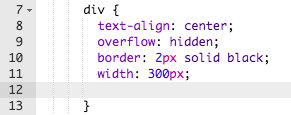
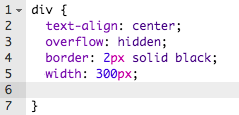
finished separating HTML and CSS. fixes #32

diff --git a/en-GB/Wanted/Club Leader Resources/WantedFinished.html b/en-GB/Wanted/Club Leader Resources/WantedFinished.html
@@ -1,50 +1,7 @@
 <html>
   
   <head>
-  
-    <style>
-      
-      body {
-        background: lightblue;
-      }
-      
-      div {
-        text-align: center;
-        overflow: hidden;
-        border: 5px dotted red;
-        width: 300px;
-        background: yellow;
-      }
-      
-      img {
-        width: 100px;
-        border: 2px solid black;
-        padding: 10px;
-        background: white;
-        margin: 10px;
-      }
-      
-      h1 {
-        font-family: Impact;
-        font-size: 50pt;
-        text-decoration: underline overline;
-        margin: 10px;
-      }
-      
-      h3 {
-        font-family: Impact;
-        font-size: 18pt;
-        margin: 10px;
-      }
-      
-      p {
-        font-family: Arial;
-        font-size: 12pt;
-        margin: 20px;
-      }
-      
-    </style>
-    
+    <link rel="stylesheet" href="style.css"> 
   </head>
   
   <body>

diff --git a/en-GB/Wanted/Club Leader Resources/style.css b/en-GB/Wanted/Club Leader Resources/style.css
@@ -1,0 +1,38 @@
+body {
+  background: lightblue;
+}
+
+div {
+  text-align: center;
+  overflow: hidden;
+  border: 5px dotted red;
+  width: 300px;
+  background: yellow;
+}
+
+img {
+  width: 100px;
+  border: 2px solid black;
+  padding: 10px;
+  background: white;
+  margin: 10px;
+}
+
+h1 {
+  font-family: Impact;
+  font-size: 50pt;
+  text-decoration: underline overline;
+  margin: 10px;
+}
+
+h3 {
+  font-family: Impact;
+  font-size: 18pt;
+  margin: 10px;
+}
+
+p {
+  font-family: Arial;
+  font-size: 12pt;
+  margin: 20px;
+}

diff --git a/en-GB/Wanted/Project Resources/Wanted/Wanted.html b/en-GB/Wanted/Project Resources/Wanted/Wanted.html
@@ -1,20 +1,7 @@
 <html>
   
   <head>
-  
-    <style>
-      
-      div {
-        text-align: center;
-        overflow: hidden;
-        border: 2px solid black;
-        width: 300px;
-      }
-
-      
-
-    </style>
-    
+    <link rel="stylesheet" href="style.css">  
   </head>
   
   <body>

diff --git a/en-GB/Wanted/Project Resources/Template/template.html b/en-GB/Wanted/Project Resources/Template/template.html
@@ -1,9 +1,7 @@
 <html>
   
   <head>
-  	<style>
-  	
-  	</style>
+  	<link rel="stylesheet" href="style.css">
   </head>
   
   <body>

diff --git a/en-GB/Wanted/Project Resources/Wanted/style.css b/en-GB/Wanted/Project Resources/Wanted/style.css
@@ -1,0 +1,6 @@
+div {
+	text-align: center;
+	overflow: hidden;
+	border: 2px solid black;
+	width: 300px;
+}

diff --git a/en-GB/Wanted/Wanted.md b/en-GB/Wanted/Wanted.md
@@ -26,7 +26,7 @@ Let's start by editing the CSS code for the poster.
 	</iframe>
 </div>
 
-+ If you go to line 7, you'll notice that there are already CSS properties for the `div` containing the different parts of the poster.
++ Click on the "style.css" tab. You'll notice that there are already CSS properties for the `div` containing the different parts of the poster.
 
 	```
 	div {
@@ -55,7 +55,7 @@ Let's start by editing the CSS code for the poster.
 
 + Change the `width` of the poster to `400px`. What happens to the poster?
 
-+ Let's add some CSS to set the background colour of the poster. Go to the end of line 11 of your code and press return, so that you have a new blank line.
++ Let's add some CSS to set the background colour of the poster. Go to the end of line 5 of your code and press return, so that you have a new blank line.
 
 	![screenshot](wanted-newline.png)
 

diff --git a/en-GB/Tell a Story/Tell a Story - notes.md b/en-GB/Tell a Story/Tell a Story - notes.md
@@ -23,14 +23,17 @@ There is also a trinket containing a sample solution to the challenges:
 #Offline Resources
 This project can be [completed offline](../offline.html) if preferred. You can access the project resources by clicking the 'Download Project Materials' link for this project. This link contains a 'Project Resources' folder, which includes resources that children will need to complete this project offline. Make sure that each child has access to a copy of these resources. This folder includes the following files:
 
-+ Template.html
-+ Story.html
++ Template/Template.html
++ Template/style.css
++ Tell a Story/Story.html
++ Tell a Story/style.css
 + buildings.png
 + sun.png
 
 You can also find a completed version of this project's challenges in the 'Club Leader Resources' folder, which contains:
 
 + StoryFinished.html
++ style.css
 + boy.png
 + girl.png
 

diff --git a/en-GB/Wanted/Wanted - notes.md b/en-GB/Wanted/Wanted - notes.md
@@ -23,13 +23,16 @@ There is also a trinket containing a sample solution to the challenges:
 #Offline Resources
 This project can be [completed offline](../offline.html) if preferred. You can access the project resources by clicking the 'Download Project Materials' link for this project. This link contains a 'Project Resources' folder, which includes resources that children will need to complete this project offline. Make sure that each child has access to a copy of these resources. This folder includes the following files:
 
-+ Template.html
-+ Wanted.html
++ Template/Template.html
++ Template/style.css
++ Wanted/Wanted.html
++ Wanted/style.css
 + robot.png
 
 You can also find a completed version of this project's challenges in the 'Club Leader Resources' folder, which contains:
 
 + WantedFinished.html
++ style.css
 + robot.png
 
 #Learning Objectives
